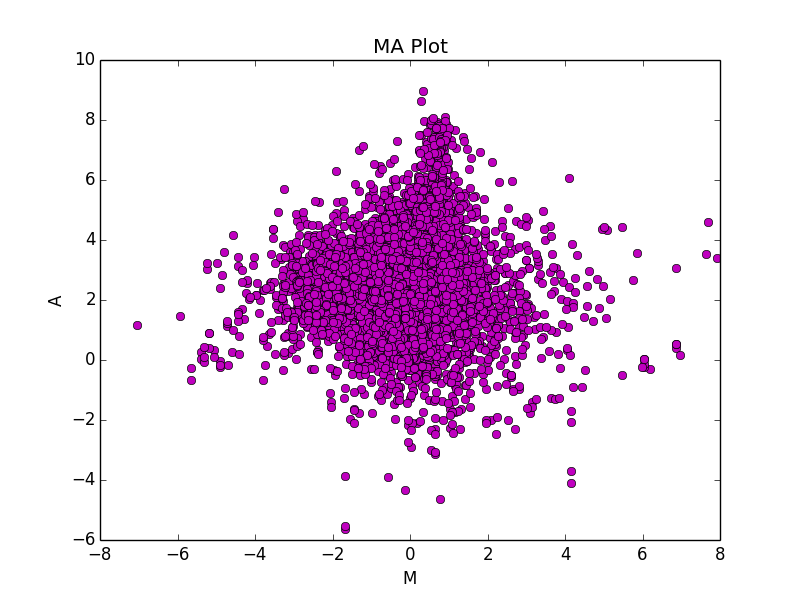
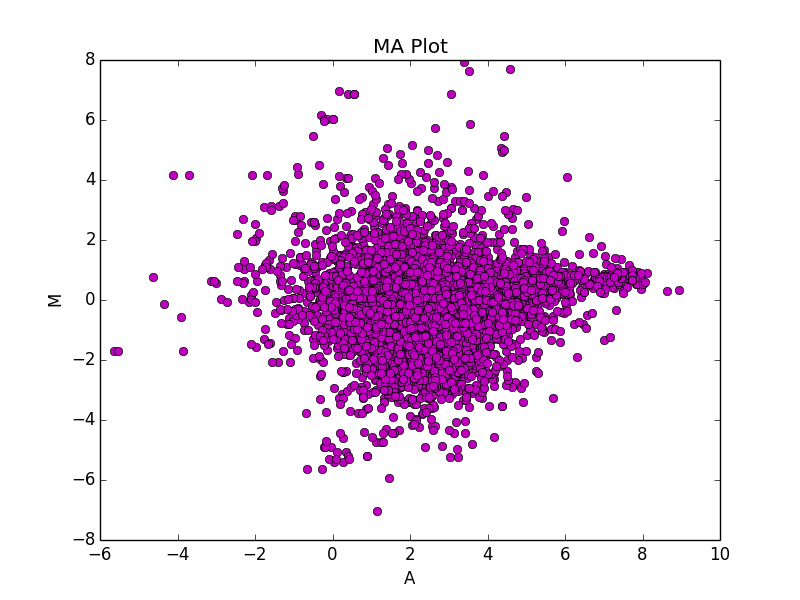
Question 4 revised

diff --git a/day3/day3lunch/question4.py b/day3/day3lunch/question4.py
@@ -28,10 +28,10 @@ A= 0.5 * (bf4 + df4)
 #print A
 
 plt.figure()
-plt.plot(list(M), list(A), 'mo')
+plt.plot(list(A), list(M), 'mo')
 plt.title("MA Plot")
-plt.xlabel("M")
-plt.ylabel("A")
+plt.xlabel("A")
+plt.ylabel("M")
 plt.savefig("MAplot.png")
 
 
